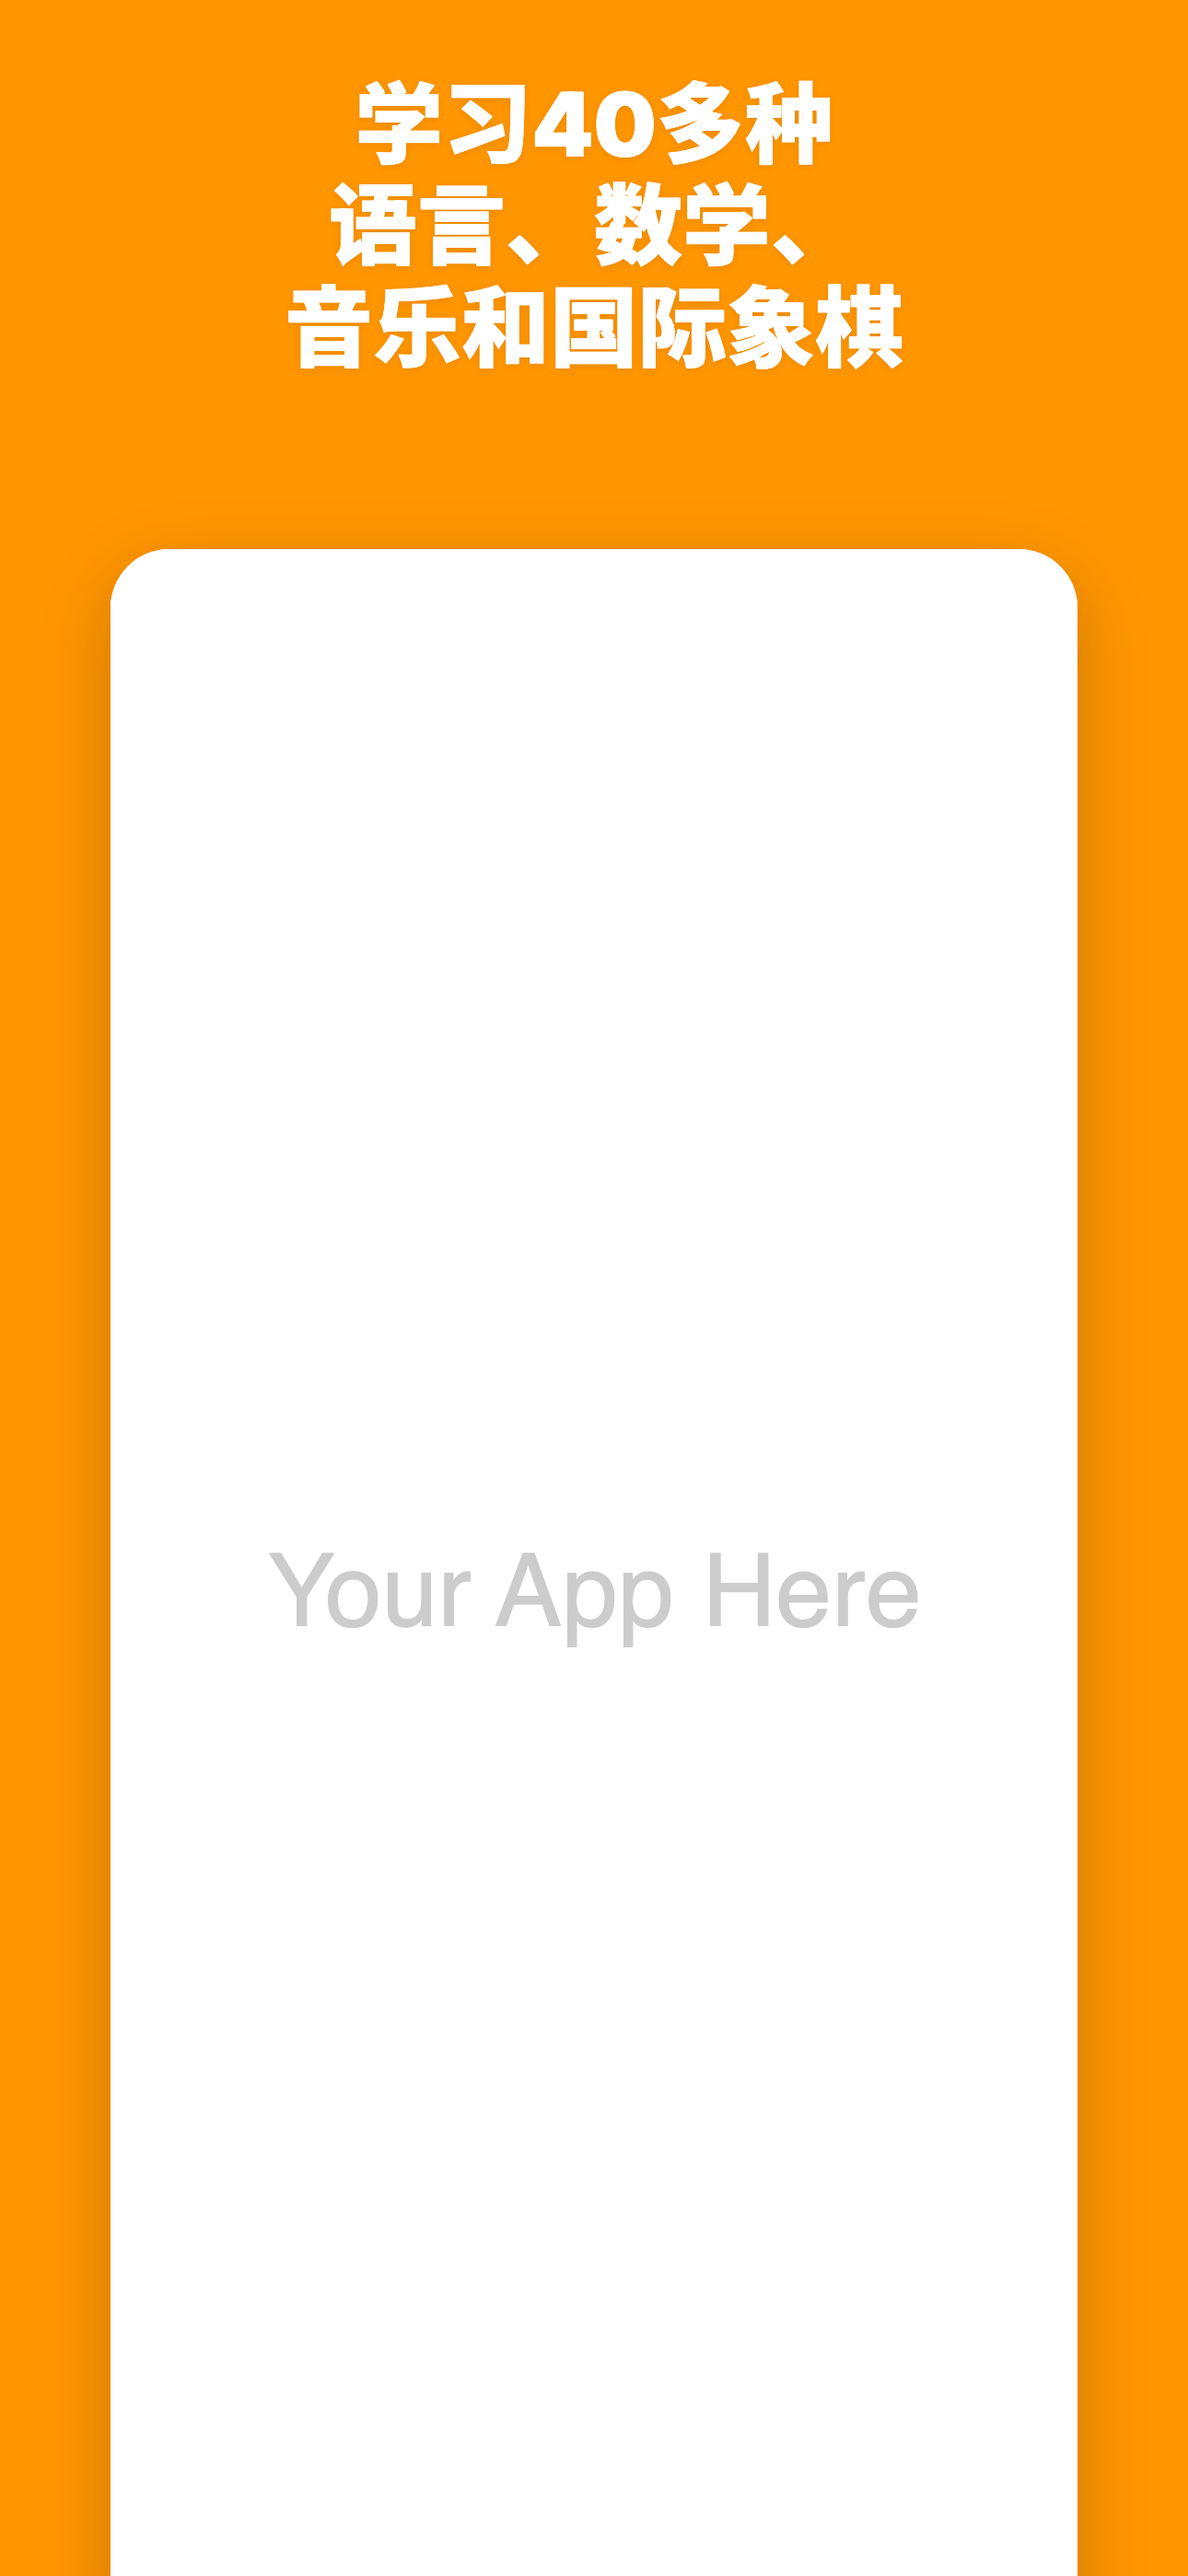
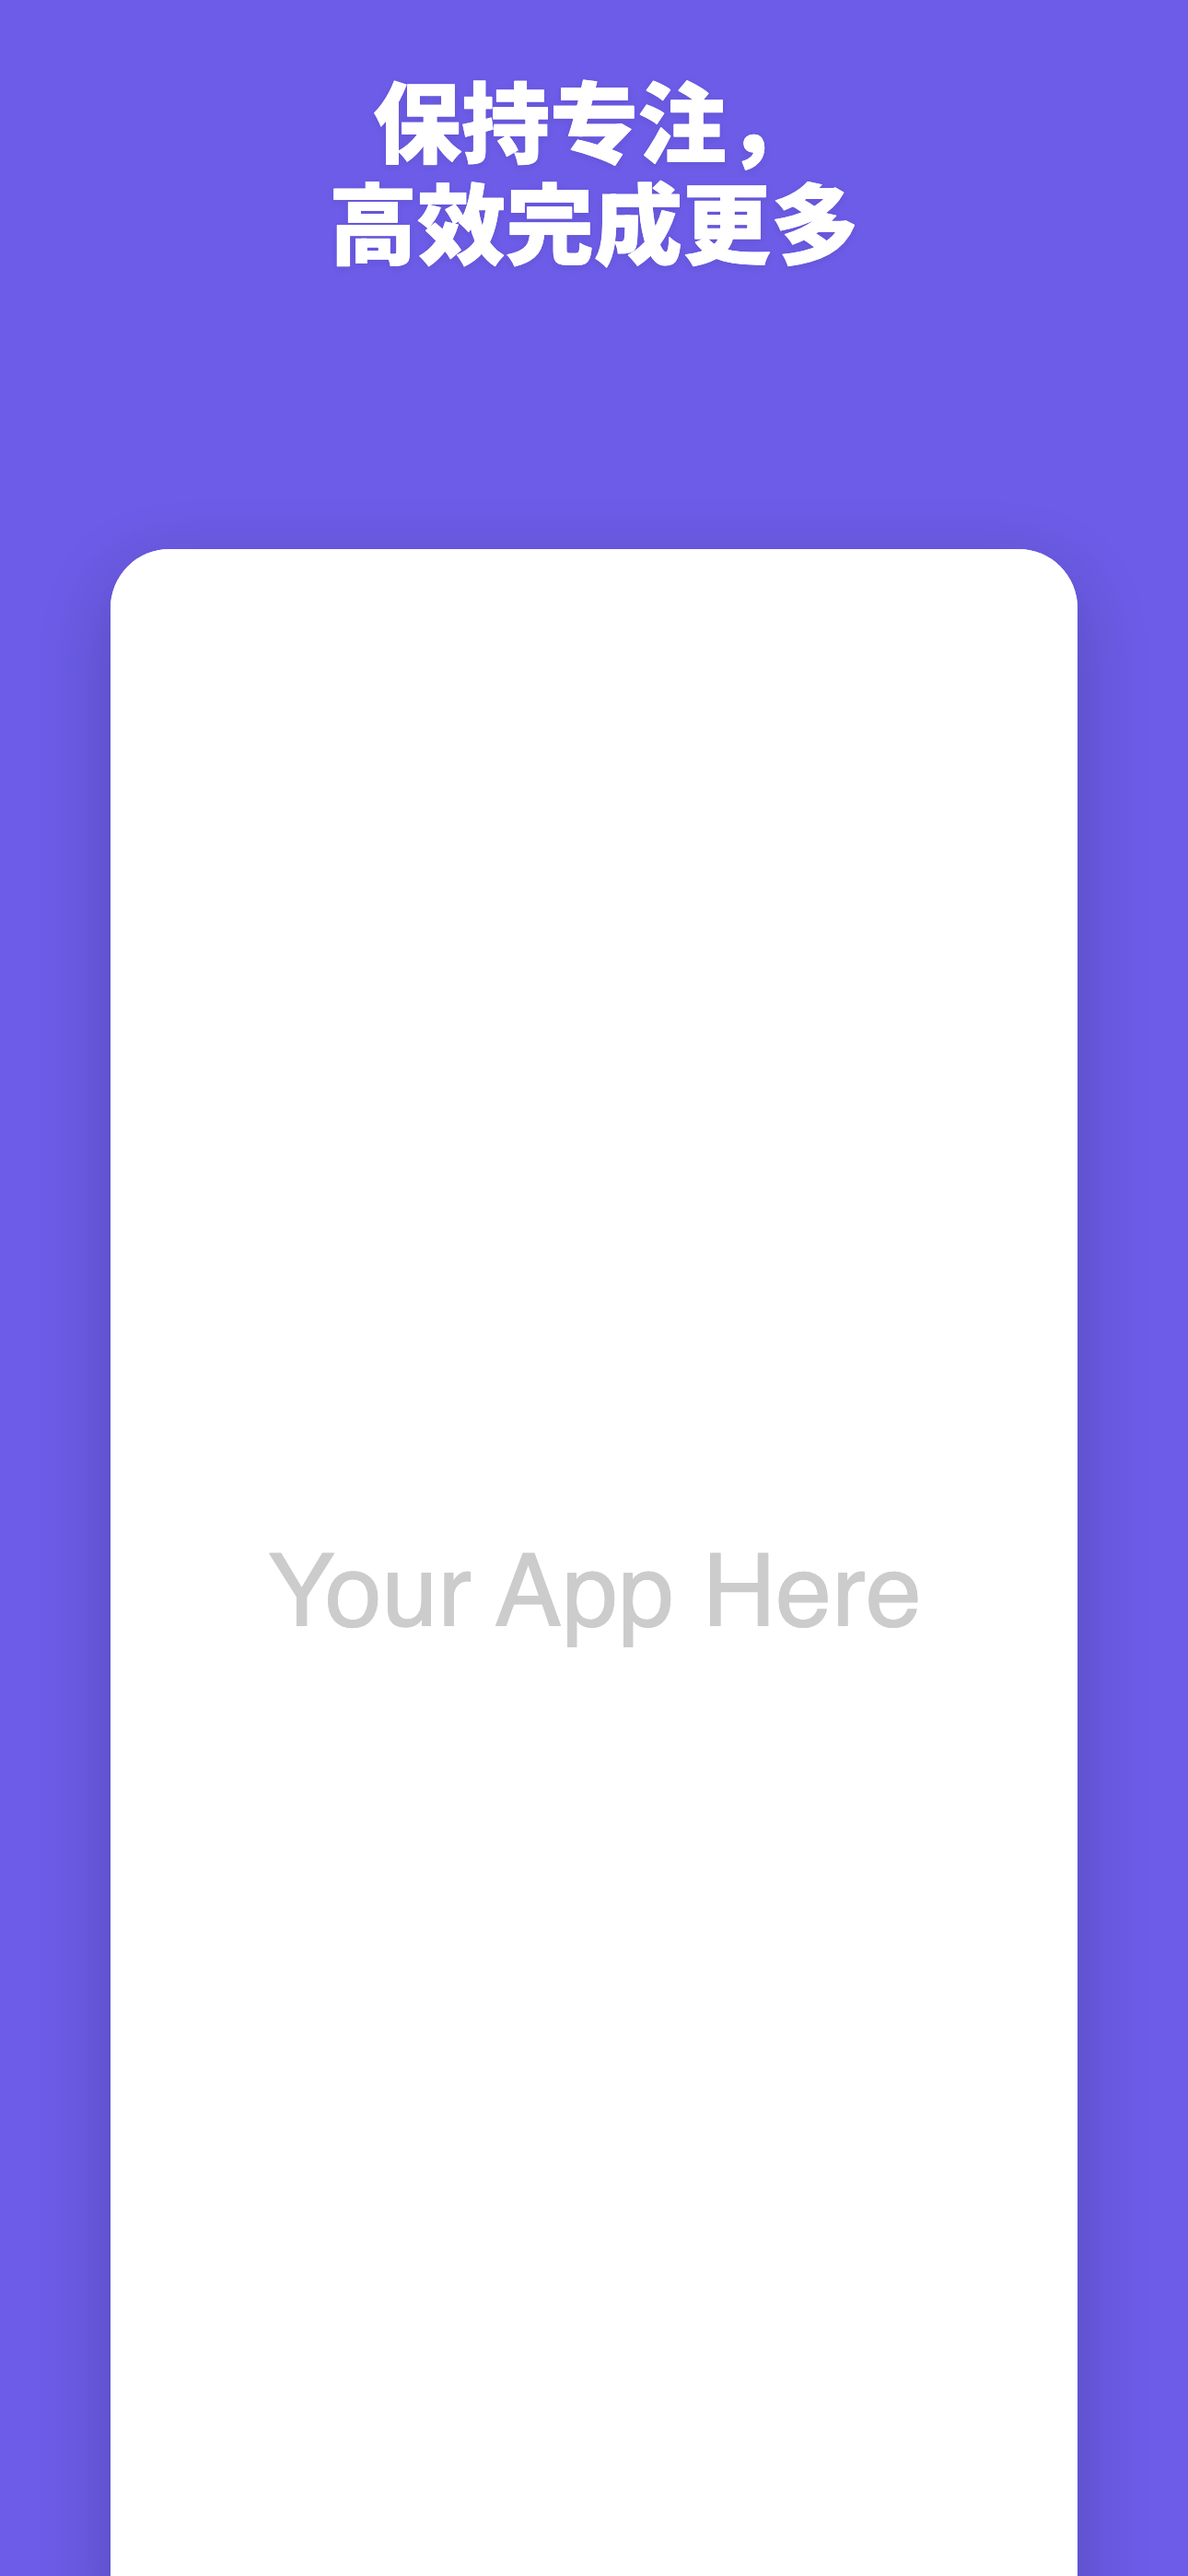
Replace Duolingo sample content with original FocusFlow example
Avoid using another company's copy. Use a fictional focus timer app
with purple color scheme as the demo content.

diff --git a/templates/typography.html b/templates/typography.html
@@ -56,14 +56,14 @@
     line-height: 1.0;
     color: {{textColor}};
     text-shadow:
-      0  1px 0 hsl(30, 100%, 40%),
-      0  2px 0 hsl(30, 100%, 38%),
-      0  3px 0 hsl(30, 100%, 36%),
-      0  4px 0 hsl(30, 100%, 34%),
-      0  5px 0 hsl(30, 100%, 32%),
-      0  6px 0 hsl(30, 100%, 30%),
-      0  7px 0 hsl(30, 100%, 28%),
-      0  8px 0 hsl(30, 100%, 26%),
+      0  1px 0 hsl(255, 60%, 40%),
+      0  2px 0 hsl(255, 60%, 38%),
+      0  3px 0 hsl(255, 60%, 36%),
+      0  4px 0 hsl(255, 60%, 34%),
+      0  5px 0 hsl(255, 60%, 32%),
+      0  6px 0 hsl(255, 60%, 30%),
+      0  7px 0 hsl(255, 60%, 28%),
+      0  8px 0 hsl(255, 60%, 26%),
       0  9px 15px rgba(0, 0, 0, 0.15),
       0  9px 30px rgba(0, 0, 0, 0.08);
     white-space: pre-line;
